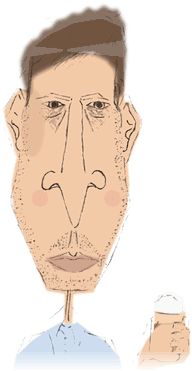
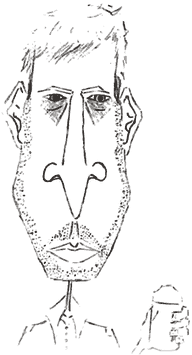
The Magister as a pencil sketch, without the coloring
Claude-Session: https://claude.ai/code/session_01AocUsKCaBTok9bRzHUhHYx

diff --git a/templates/_magister.html b/templates/_magister.html
@@ -2,9 +2,9 @@
     optionally `small` (the in-practice size, for the slow-down message). -#}
 {% if say %}
 <aside class="magister {{ 'small' if small }}" aria-label="The Magister says">
-  {# Drawn by a student; cleaned up and colored for the app. The student's
+  {# Drawn by a student; cleaned up for the app, his pencil lines kept. The student's
      signature was left off: this app carries no student's name. #}
-  <div class="mg-face"><img src="{{ url_for('static', filename='magister.png') }}" alt="" width="192" height="371"></div>
+  <div class="mg-face"><img src="{{ url_for('static', filename='magister.png') }}" alt="" width="192" height="355"></div>
   <div class="mg-bubble"><div class="mg-name">Magister</div><p>{{ say }}</p>
     {% if not small %}<button type="button" class="mg-close" aria-label="Close"
       onclick="this.closest('.magister').hidden = true">✕</button>{% endif %}</div>

diff --git a/README.md b/README.md
@@ -502,7 +502,7 @@ to answers from the day this shipped; older answers carry no verdict.
 
 ## The Magister
 
-The Magister -- a student's caricature of the teacher, cleaned up and colored
+The Magister -- a student's pencil caricature of the teacher, cleaned up
 (`static/magister.png`; the student's signature was left off, since the app
 carries no student names) -- on the student home screen says one line per visit, rotating through Expectations, How to study,
 The science of memory and Why Latin; each student hears every approved line
